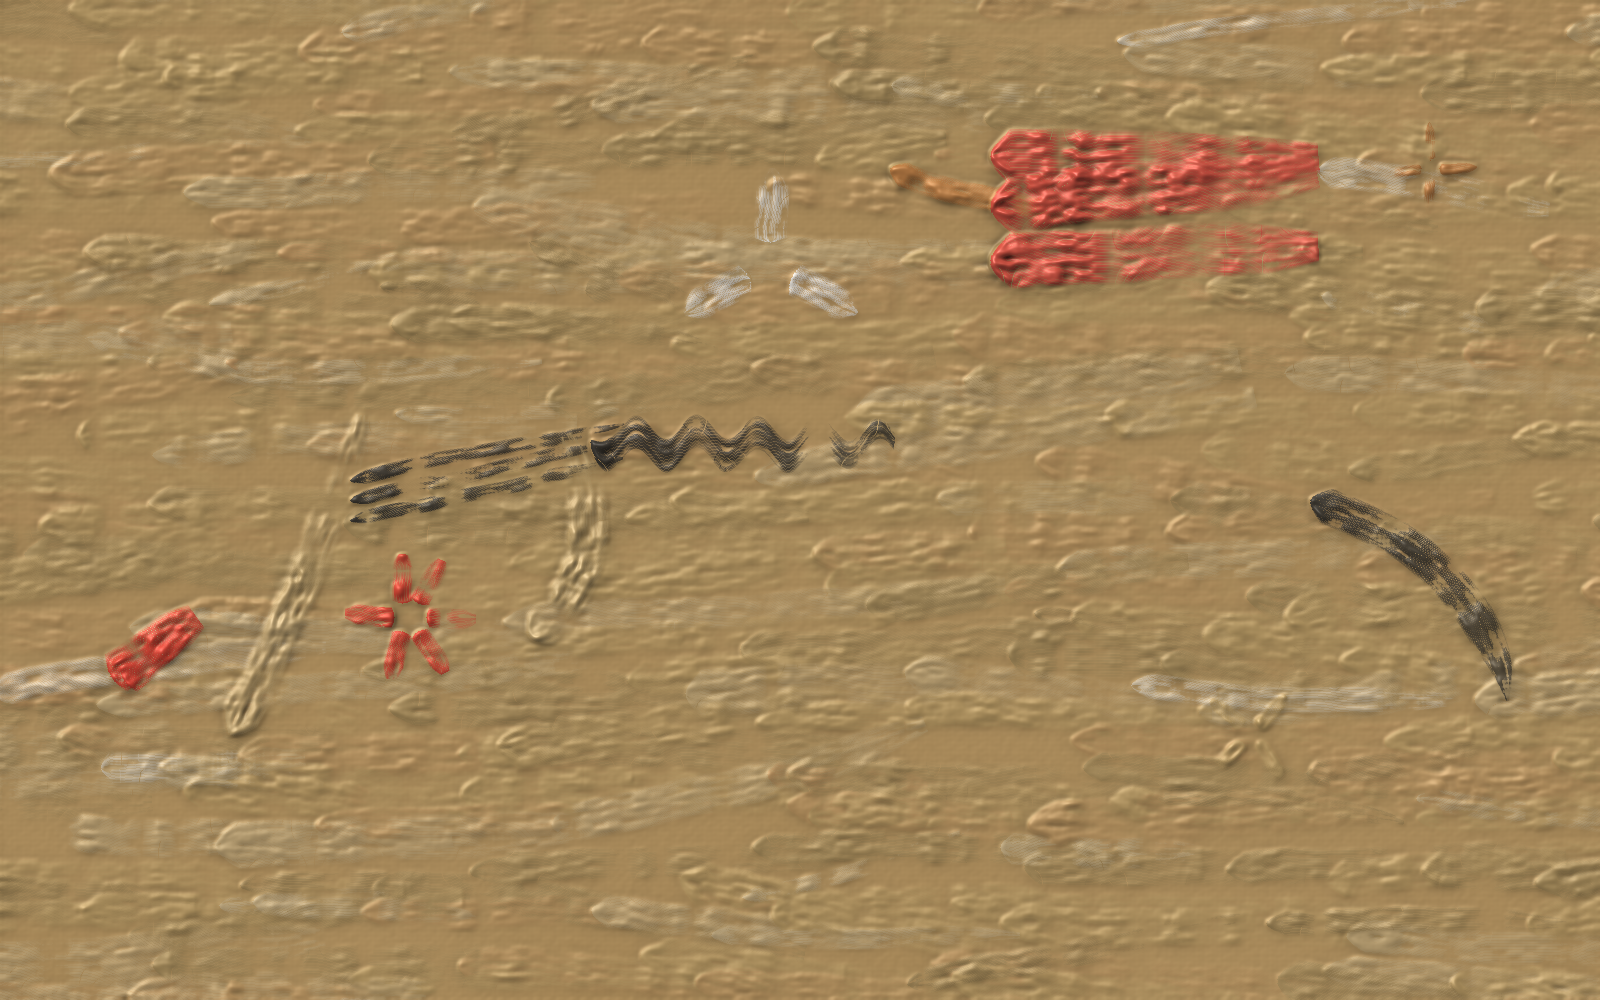
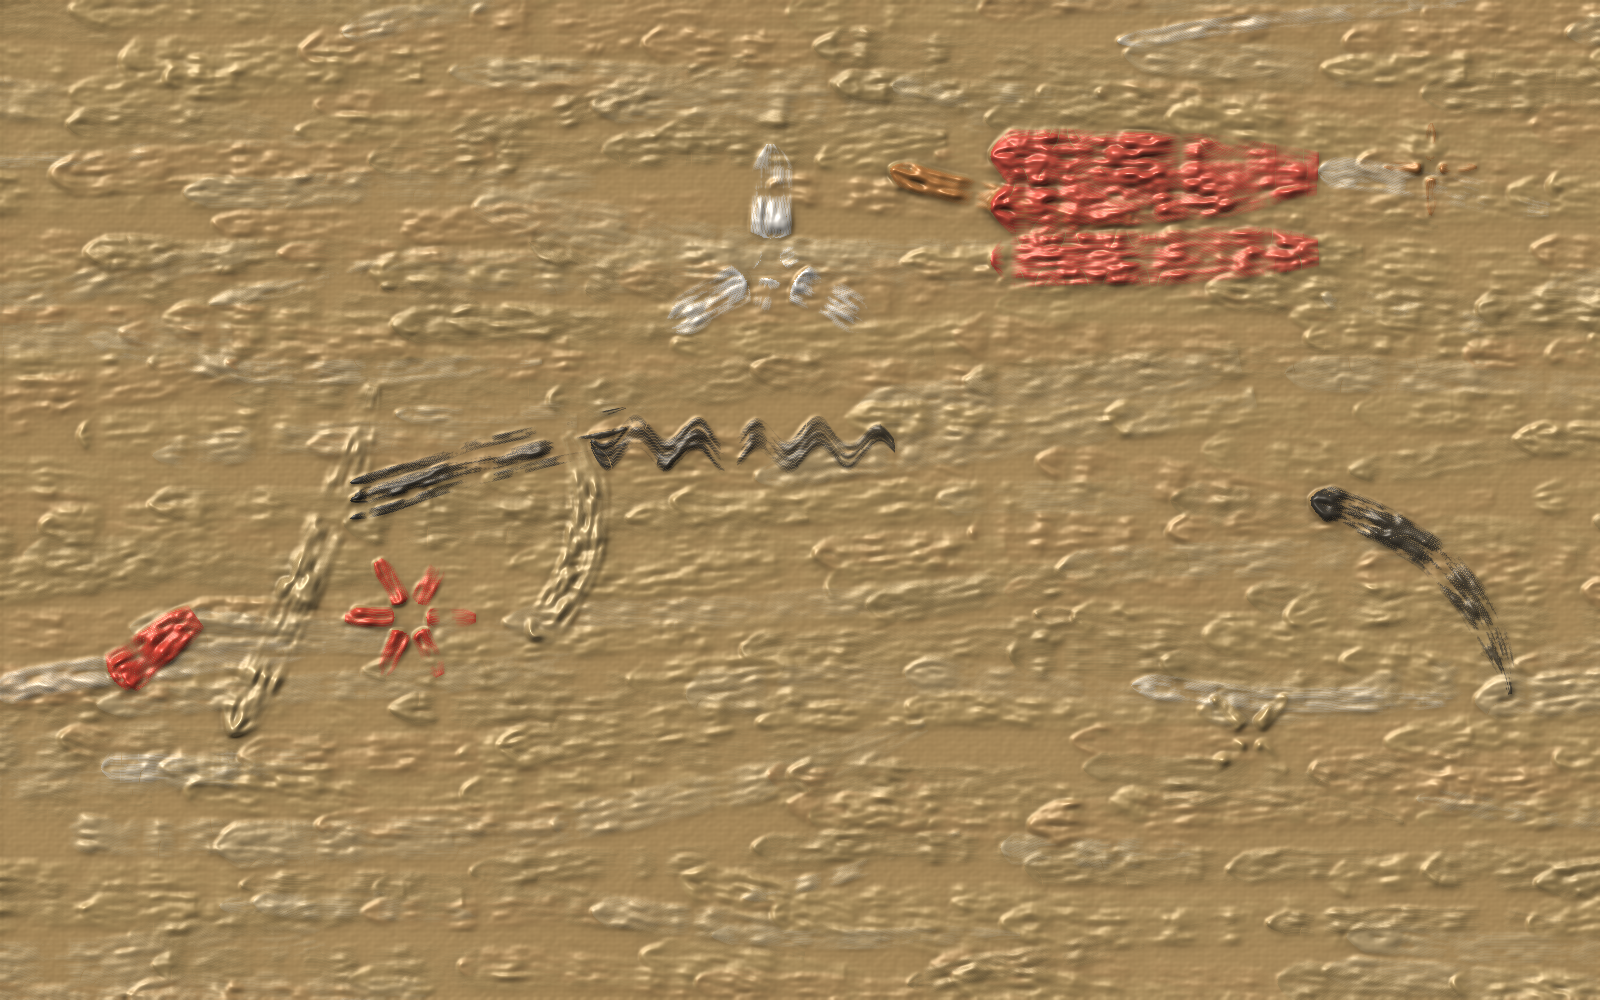
v7: migliora leggibilità segni — armonici visibili, rilievo più forte
- relief 2.3→3.4 e spec_strength 0.30→0.50: impasto più drammatico,
  creste dell'olio leggibili nella luce radente
- harmonic_natural: bianco quasi puro (blend white/col 0.18), opacità
  0.95, 6 raggi (3 lunghi + 3 brevi interni) → alone visibile su ocra
- legato: rimosso secondo passaggio ridondante che intorbidiva il centro;
  smear ridotto 0.55→0.30 per mantenere colore pulito
- slide: parallele laterali più sottili (11/18/10px) e opacità degradata
  (0.97/0.72/0.68) → struttura a tre linee leggibile ma non sovrapposta

https://claude.ai/code/session_01YHYaY3hzsgVUD5dcHi8sfs

diff --git a/zorn_riff_v7.py b/zorn_riff_v7.py
@@ -412,17 +412,20 @@ class ZornOilPainting:
 
             elif tech == 'legato':
                 self.cv.stroke(x, y, ang_next + random.gauss(0, 0.05),
-                               (220 + 130 * dur) * v, 32 * v, col,
-                               opacity=0.95, thickness=1.8,
-                               curvature=random.gauss(0, 0.25),
-                               dryness=0.35, smear=0.45, taper_end=0.75)
+                               (240 + 140 * dur) * v, 36 * v, col,
+                               opacity=0.97, thickness=2.2,
+                               curvature=random.gauss(0, 0.22),
+                               dryness=0.30, smear=0.30, taper_end=0.70)
 
             elif tech == 'slide':
-                for off in (-20, 0, 20):
+                # tre parallele sottili con la centrale dominante
+                for off, opac, th, wd in [(-18, 0.72, 0.9, 11),
+                                          (  0, 0.97, 2.0, 18),
+                                          ( 18, 0.68, 0.8, 10)]:
                     self.cv.stroke(x, y + off, math.radians(-15),
-                                   230 * v, 15, col,
-                                   opacity=0.88, thickness=1.2,
-                                   dryness=0.50, smear=0.35, taper_end=0.85)
+                                   235 * v, wd, col,
+                                   opacity=opac, thickness=th,
+                                   dryness=0.45, smear=0.22, taper_end=0.82)
 
             elif tech == 'hammer_on':
                 for adeg in (0, 60, 120, 180, 240, 300):
@@ -471,13 +474,22 @@ class ZornOilPainting:
                                smear=0.4, taper_end=0.9)
 
             elif tech == 'harmonic_natural':
-                # velature chiare ma presenti: aloni di bianco sul campo
+                # E = bianco su ocra: forza il bianco puro per renderlo visibile;
+                # tre raggi formano un alone etereo ma leggibile.
+                hcol = zorn_blend(ZORN['white'], col, 0.18)
                 for adeg in (30, 150, 270):
                     a = math.radians(adeg)
-                    self.cv.stroke(x + 24 * math.cos(a), y + 24 * math.sin(a),
-                                   a, 75, 34, col,
-                                   opacity=0.70, thickness=0.9,
-                                   dryness=0.45, smear=0.45, taper_end=0.8)
+                    self.cv.stroke(x + 28 * math.cos(a), y + 28 * math.sin(a),
+                                   a, 95, 42, hcol,
+                                   opacity=0.95, thickness=1.8,
+                                   dryness=0.35, smear=0.35, taper_end=0.75)
+                # velatura più sottile (glow interno)
+                for adeg in (90, 210, 330):
+                    a = math.radians(adeg)
+                    self.cv.stroke(x + 12 * math.cos(a), y + 12 * math.sin(a),
+                                   a, 42, 22, hcol,
+                                   opacity=0.62, thickness=0.8,
+                                   dryness=0.58, smear=0.52, taper_end=0.90)
 
             elif tech == 'harmonic_artificial':
                 for adeg in (0, 90, 180, 270):
@@ -519,7 +531,8 @@ class ZornOilPainting:
         print("Segni del riff...")
         self.riff_marks(notes)
         print("Relief lighting (diffusa + speculare + AO)...")
-        img = self.cv.render()
+        img = self.cv.render(relief=3.4, ambient=0.38,
+                             spec_strength=0.50, shininess=30.0)
         img.save(out, dpi=(150, 150))
         print(f"\nArtwork v7 salvato: {out}")
 